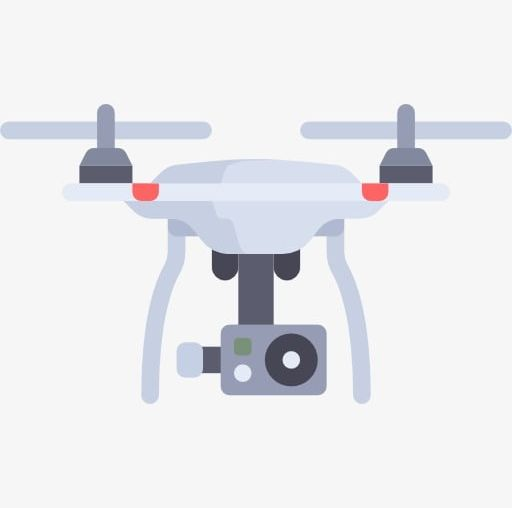
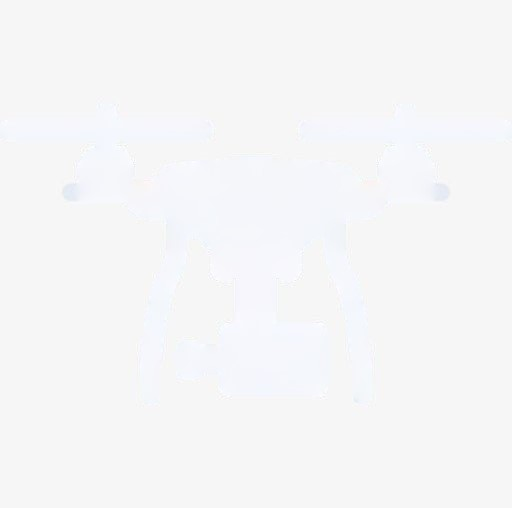
preloader

Changed region(s): [[0.0, 0.2067, 1.0, 0.7972]]

diff --git a/js/preloader.js b/js/preloader.js
@@ -39,10 +39,10 @@ $(document).ready(function() {
             });
             $('.loader-background').fadeOut(3000, function () {
             });
-            $('.body').load(' .masthead', function() {
+            $('.masthead').load(' .masthead .container')
               /// can add another function here
               $('body').removeClass('loading');
-         });
+         
         }
         num++;
       },i*70);

diff --git a/css/styles.css b/css/styles.css
@@ -169,7 +169,7 @@ body {
 }
 
 .drone {
-  content: url('../assets/img/preloader/drone_clipArt.jpg');
+  content: url('../assets/img/preloader/drone_clipArt.png');
   height: 50px;
   width: 50px;
   display: block;
